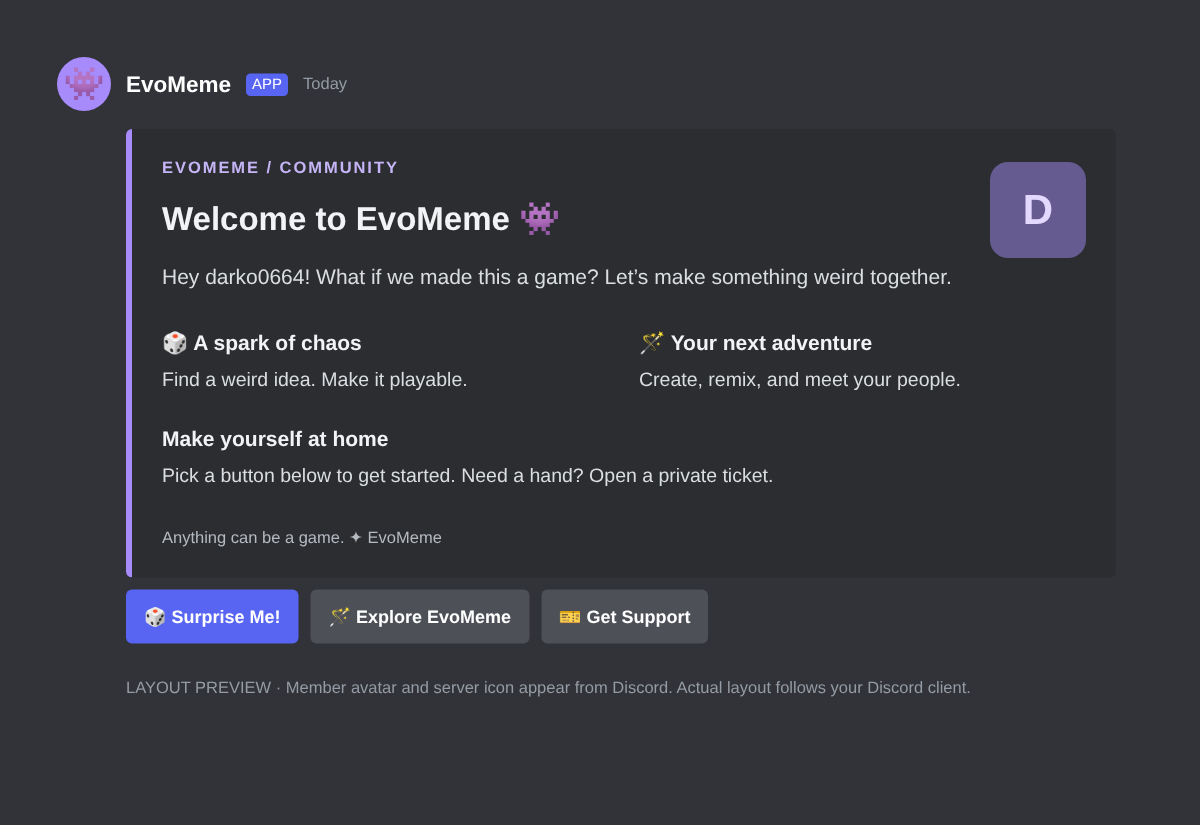
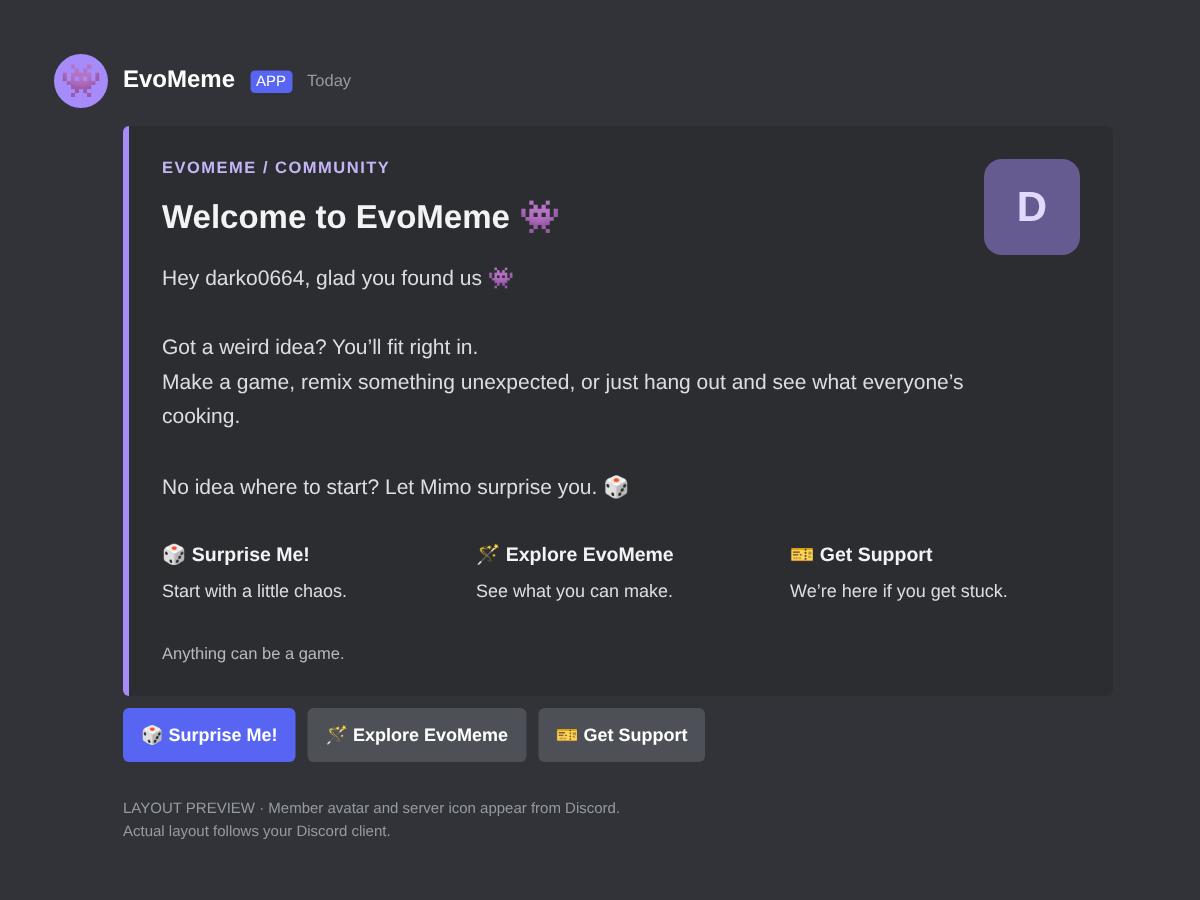
Make welcome card copy warmer and simplify its guidance

diff --git a/packages/core/src/config.ts b/packages/core/src/config.ts
@@ -26,7 +26,7 @@ export const configSchema = z.object({
 export type Config = z.infer<typeof configSchema>;
 export const defaults: Config = {
   phase: 'PRELAUNCH', timezone: 'Asia/Singapore',
-  persona: { name: 'Mimo', welcome: "Hey {user}! What if we made this a game? Let's make something weird together.", promptTemplate: 'Create a playful, accessible game with clear mechanics and a shareable result.' },
+  persona: { name: 'Mimo', welcome: 'Hey {user}, glad you found us 👾\n\nGot a weird idea? You’ll fit right in.\nMake a game, remix something unexpected, or just hang out and see what everyone’s cooking.\n\nNo idea where to start? Let Mimo surprise you. 🎲', promptTemplate: 'Create a playful, accessible game with clear mechanics and a shareable result.' },
   links: { intro: '', web: '', ios: '', android: '' },
   channels: { welcome: '', community: '', ticketCategory: '', publish: [] },
   enabled: { welcome: false, tickets: false, messaging: false, web: false, ios: false, android: false },

diff --git a/packages/core/src/welcome-card.ts b/packages/core/src/welcome-card.ts
@@ -22,11 +22,11 @@ export function welcomeCard(body: string, appearance: WelcomeAppearance = {}) {
     description: body,
     ...(avatar ? { thumbnail: { url: avatar } } : {}),
     fields: [
-      { name: '🎲 A spark of chaos', value: 'Find a weird idea. Make it playable.', inline: true },
-      { name: '🪄 Your next adventure', value: 'Create, remix, and meet your people.', inline: true },
-      { name: 'Make yourself at home', value: 'Pick a button below to get started. Need a hand? Open a private ticket.' },
+      { name: '🎲 Surprise Me!', value: 'Start with a little chaos.', inline: true },
+      { name: '🪄 Explore EvoMeme', value: 'See what you can make.', inline: true },
+      { name: '🎫 Get Support', value: 'We’re here if you get stuck.', inline: true },
     ],
-    footer: { text: 'Anything can be a game.  ✦  EvoMeme' },
+    footer: { text: 'Anything can be a game.' },
   };
   const row: APIActionRowComponent<APIButtonComponent> = {
     type: ComponentType.ActionRow,

diff --git a/docs/WELCOME_CARD.md b/docs/WELCOME_CARD.md
@@ -1,0 +1,28 @@
+# 欢迎卡片文案
+
+自动欢迎和 `/welcome` 补看共用 Discord Embed 外观。预览见
+[welcome-card-preview.png](screenshots/welcome-card-preview.png)，实际排版由 Discord 客户端决定。
+
+新建数据库默认采用下面的欢迎语。已有数据库不会被源码更新自动覆盖：
+在后台 **Mimo 与灵感 → 人设 → 欢迎模板** 粘贴下面的文字，保留 `{user}`，
+点击 **保存配置草稿**，再到 **生命周期** 检查并发布对应草稿。
+发布后，新欢迎消息使用新文案，已发送的消息不会被自动修改。
+
+```text
+Hey {user}, glad you found us 👾
+
+Got a weird idea? You’ll fit right in.
+Make a game, remix something unexpected, or just hang out and see what everyone’s cooking.
+
+No idea where to start? Let Mimo surprise you. 🎲
+```
+
+卡片下方三个短引导为：
+
+- **Surprise Me!** — Start with a little chaos.
+- **Explore EvoMeme** — See what you can make.
+- **Get Support** — We’re here if you get stuck.
+
+页脚：**Anything can be a game.**
+
+此更新只修改文案，不启用自动欢迎，也不自动发布已有配置。
